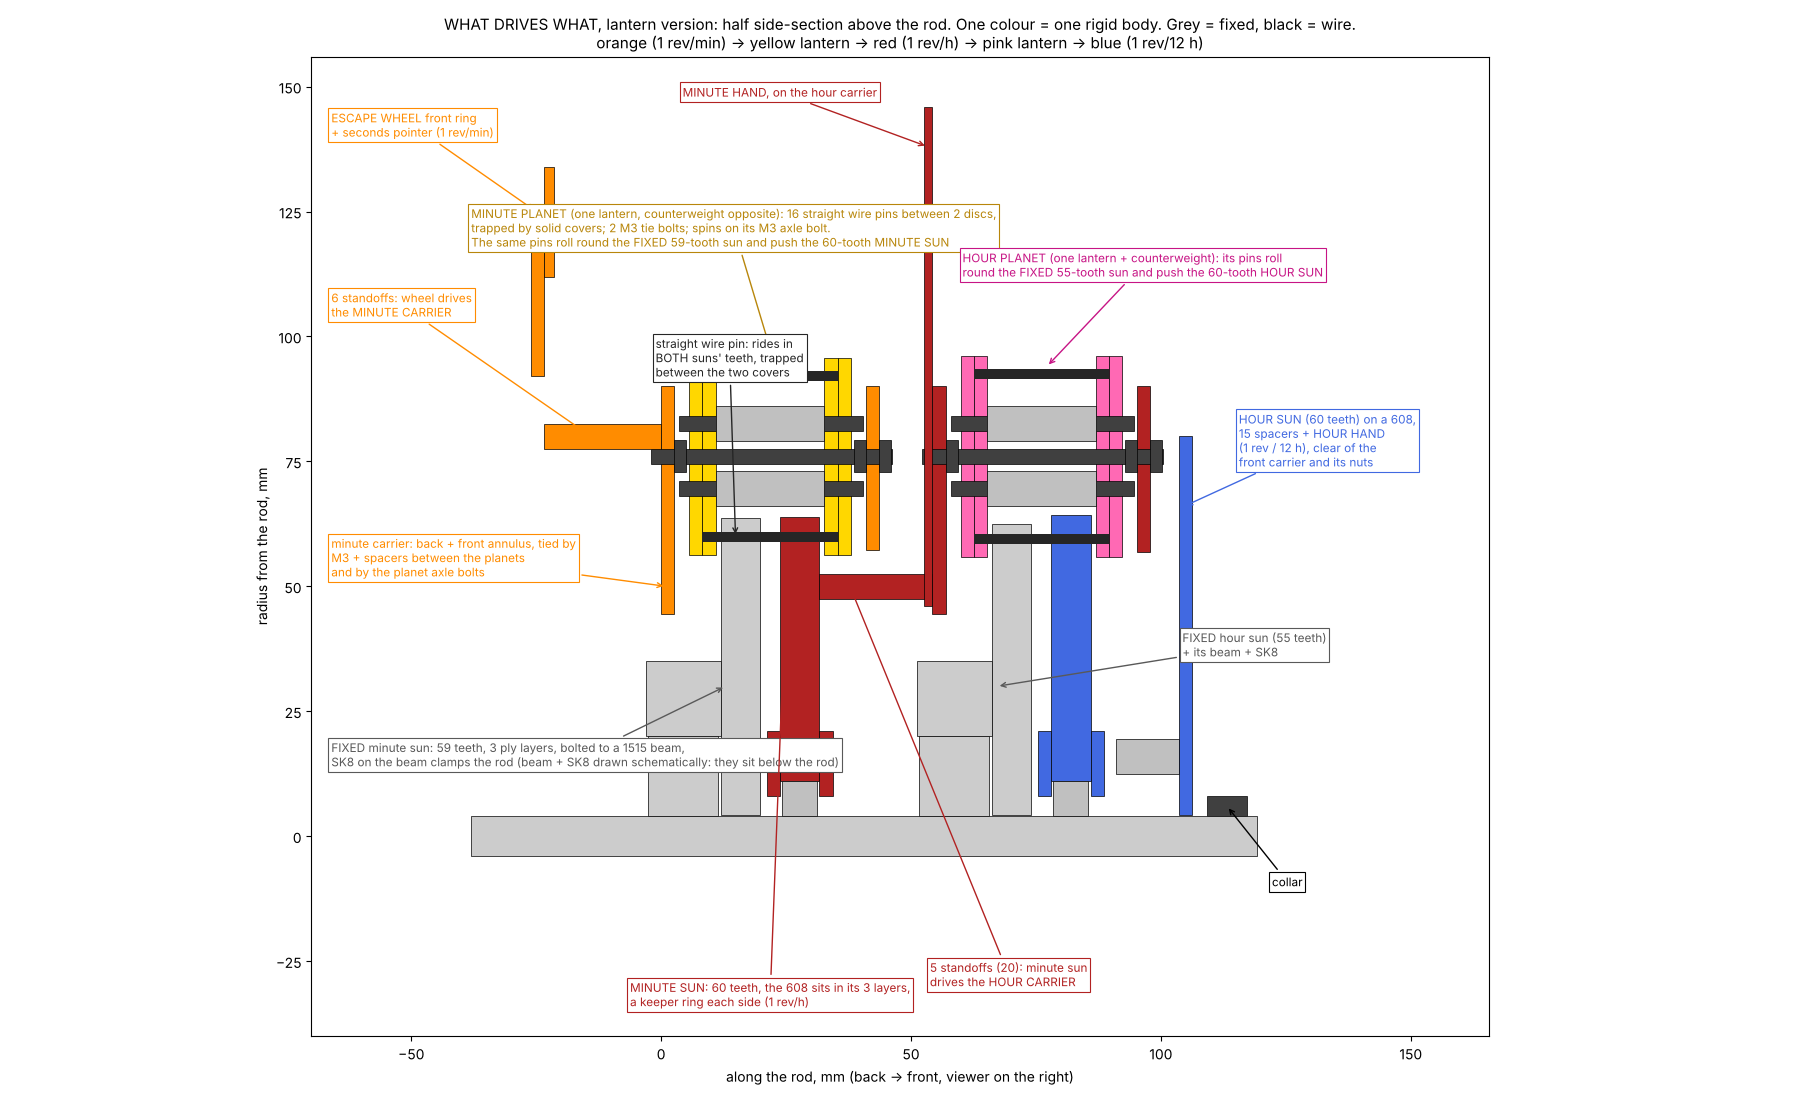
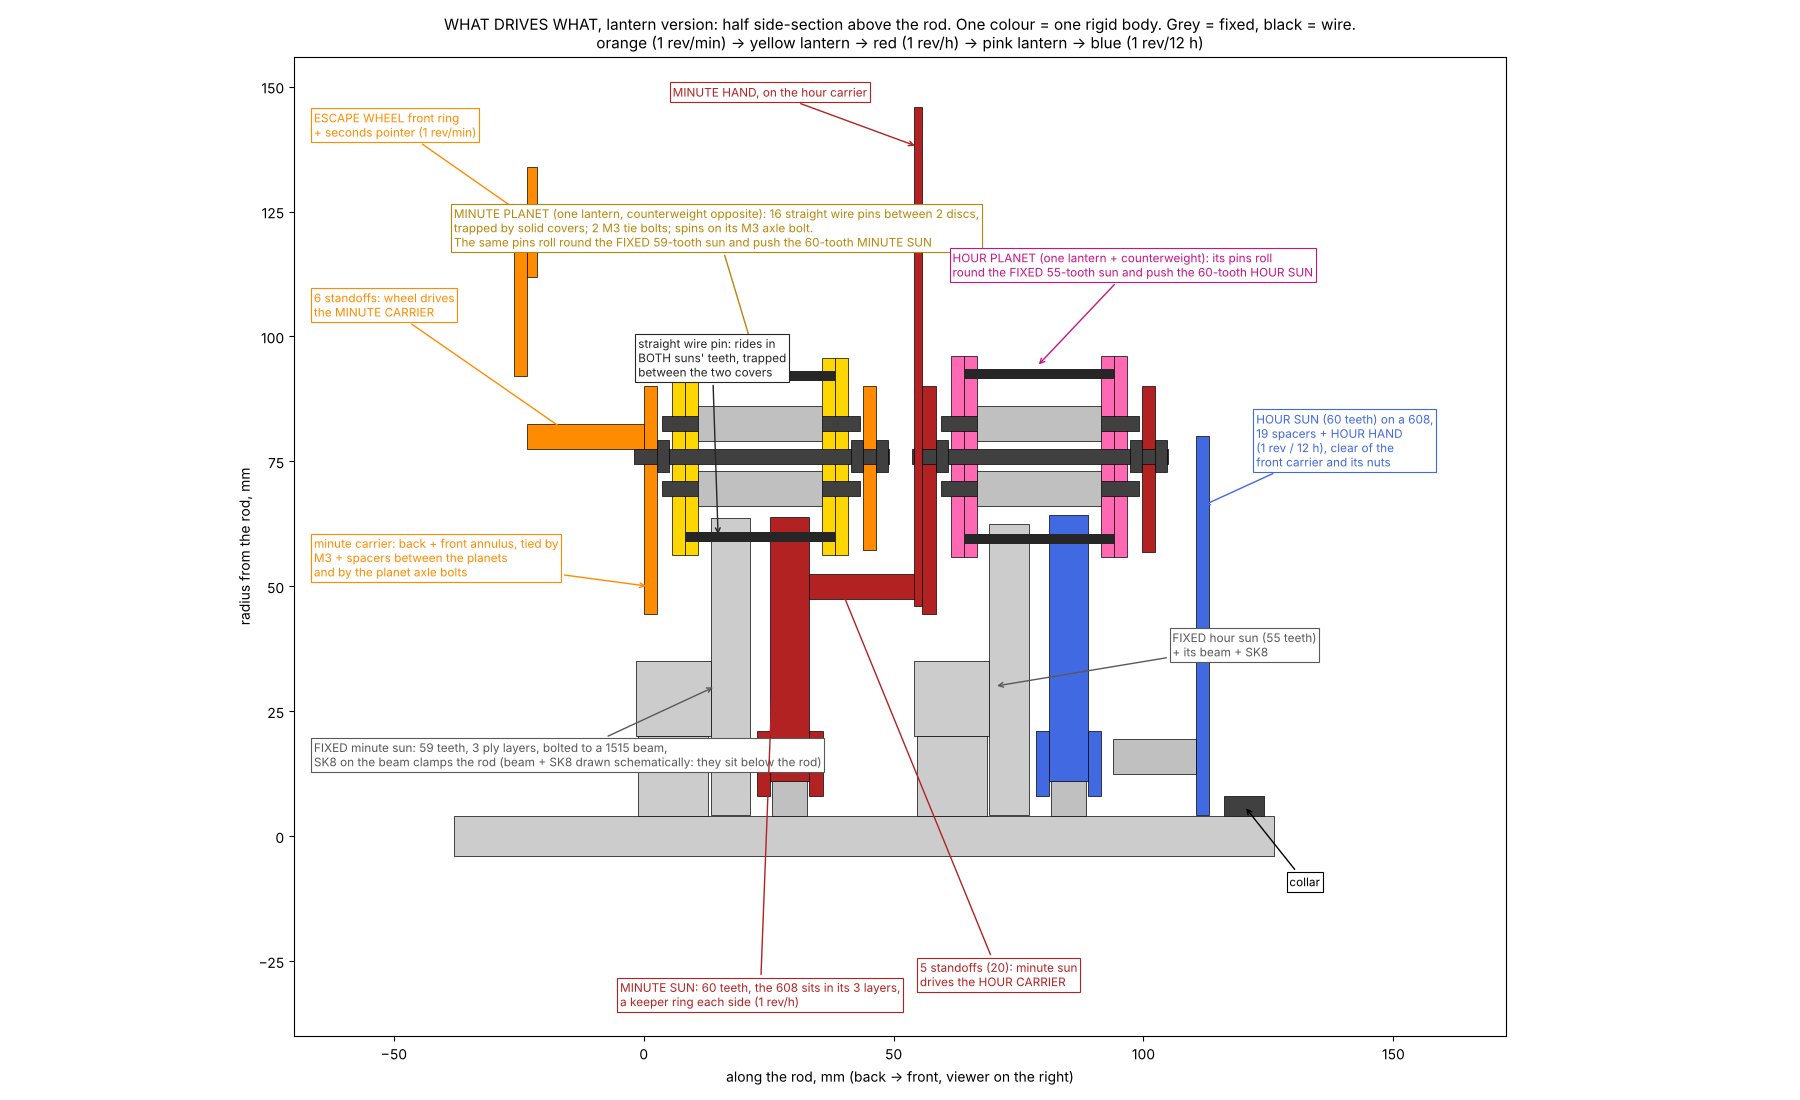
Clock train: lantern pins 30 mm (disc spacing set by the tie-bolt nuts); hour hand spacing 19 to clear the front carrier
Claude-Session: https://claude.ai/code/session_01LQy87QnU21cWEAk5CN6jGY

diff --git a/marbles/clock/clock_lantern.py b/marbles/clock/clock_lantern.py
@@ -28,12 +28,13 @@ PIN, PIN_HOLE, RIM = cp.PIN, cp.PIN_HOLE, cp.RIM
 P_PL = 16                        # lantern pins (each side)
 N_PL = 1                         # planets per stage (shared pins: see above)
 L_SUN = 3                        # ply layers per sun gear
-SUN_CLR = 1.0                    # sun to lantern disc, each side
+PIN_LEN = 30.0                   # lantern pin, cut length (outer face to outer face of the 2 holed discs)
 SUN_GAP = 4.0                    # fixed sun to output sun (the output sun's back keeper ring, 2.63, sits in it)
 TIE_D = 6.5                      # tie bolts, either side of the planet centre
 SP_D = 7.0
 STAGES = {"minute": dict(ZA=59, ZB=60), "hour": dict(ZA=55, ZB=60)}
-ZONE = 2 * SUN_CLR + 2 * L_SUN * T + SUN_GAP     # disc to disc
+ZONE = PIN_LEN - 2 * T                           # disc to disc (set by the nuts on the 2 tie bolts)
+SUN_CLR = (ZONE - 2 * L_SUN * T - SUN_GAP) / 2   # sun to lantern disc, each side
 A = 60.0 + P_PL                  # sun B pitch 2*pi -> pin circle (lantern B) r P_PL, sun B pitch r 60
 
 
@@ -113,7 +114,8 @@ if __name__ == "__main__":
                 lines.append(f"{name}_r = {d['r']:.4f};")
             disc_r = max(disc_r, d["r"] + PIN_HOLE / 2 + RIM)
     lines.append(f"LANTERN_R = {disc_r:.3f};")
-    pin_len = 2 * T + ZONE
+    pin_len = PIN_LEN
+    print(f"zone {ZONE:.2f} = pin {PIN_LEN} - 2 discs {2 * T:.2f}; sun to disc {SUN_CLR:.2f} each side, suns {SUN_GAP} apart")
     n = P_PL * N_PL * len(STAGES)
     print(f"lantern disc r {disc_r:.2f}; planet reaches {A - disc_r:.2f} .. {A + disc_r:.2f} from the rod")
     print(f"pins: {P_PL} x {N_PL} planet x {len(STAGES)} stages = {n}, each {pin_len:.2f} long "

diff --git a/marbles/clock/clock_train_drive.py b/marbles/clock/clock_train_drive.py
@@ -11,7 +11,7 @@ import clock_lantern as cl  # noqa: E402
 
 T, A, ZONE, L_SUN, N_PL = cl.T, cl.A, cl.ZONE, cl.L_SUN, cl.N_PL
 CB, FC, GAP, CAR_IN, UP_R, CAR_OUT = 3.0, 3.0, 24, 44.5, 50, cl.A + 14
-SP_UP, SP_HAND, SP_R, TIE_D = 20, 15, cl.SP_D / 2, cl.TIE_D
+SP_UP, SP_HAND, SP_R, TIE_D = 20, 19, cl.SP_D / 2, cl.TIE_D
 BEAM_REACH = 43.01            # 1515 beam corner from the rod: hypot(25, 20 + 15)
 COL = dict(fix="0.80", sec="darkorange", mpl="gold", minute="firebrick", hpl="hotpink", hour="royalblue", hw="0.25", pin="0.15")
 HERE = Path(__file__).resolve().parent
